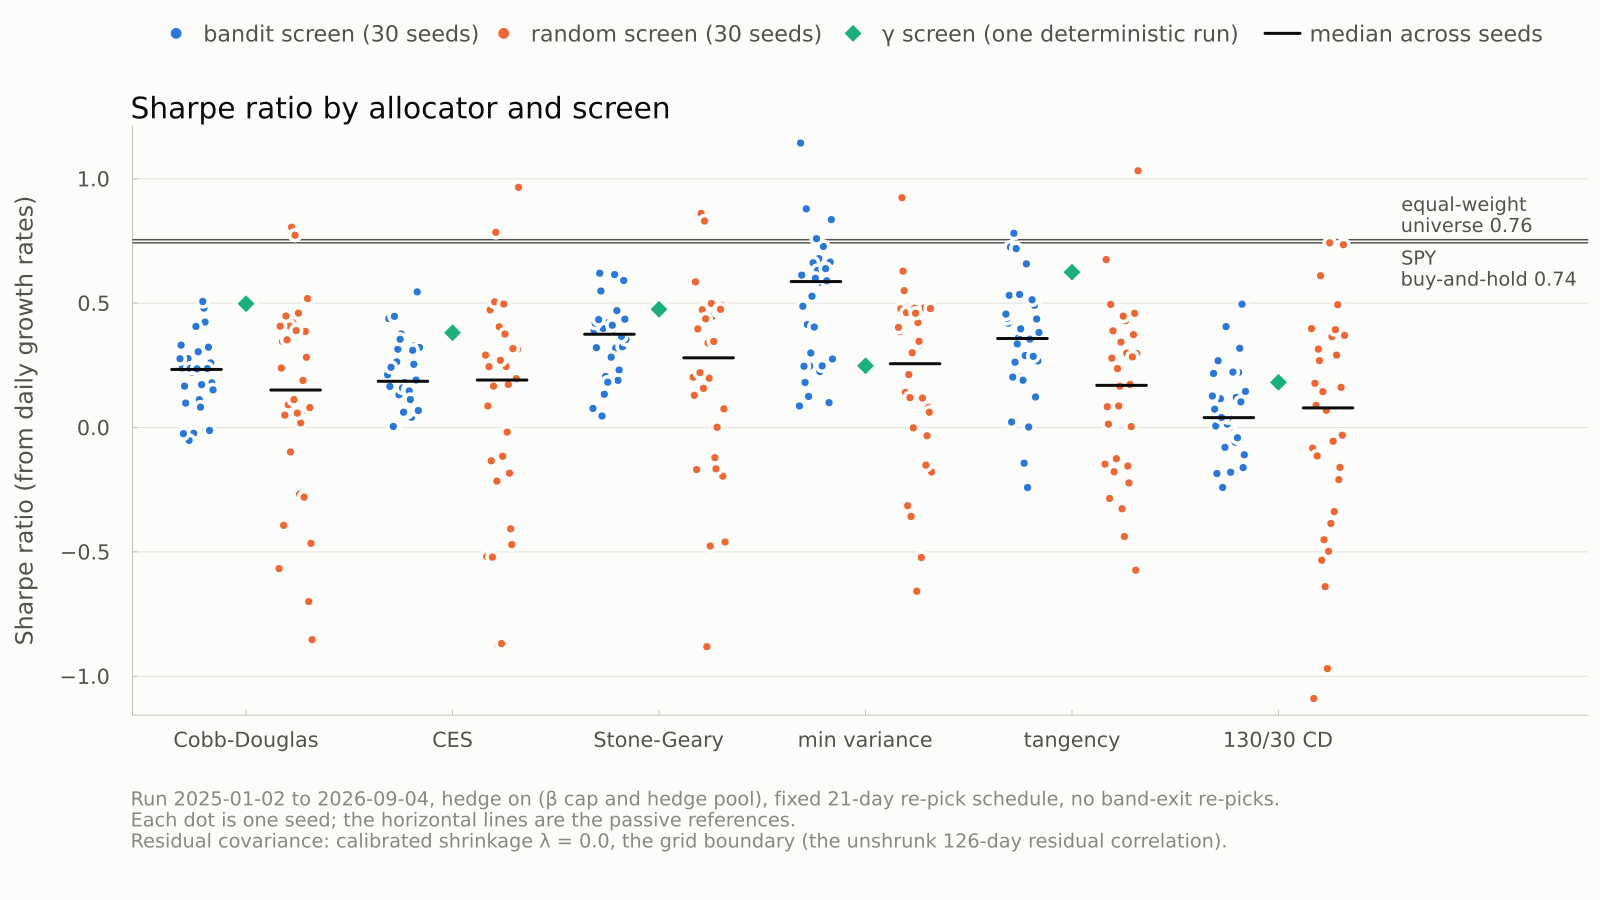
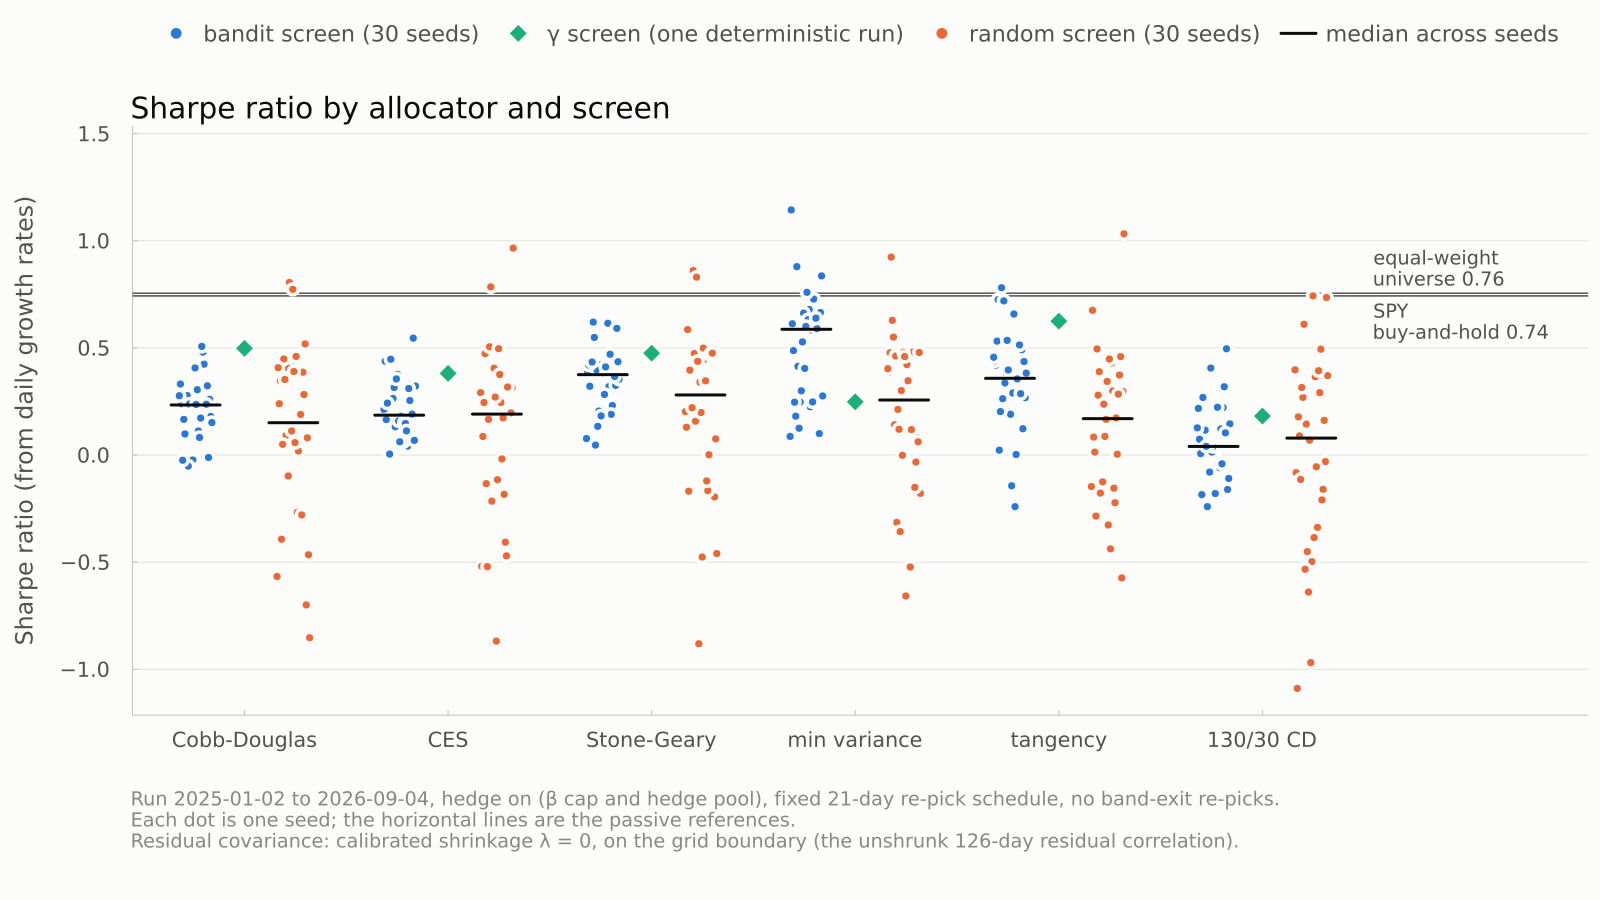
fix(figures): settings-driven captions, shared y-limits, legend order; README figures command
13_figures.jl: the beta-cap rule, pool size and lambda note come from the
settings and calibration_summary.toml (lambda read with TOML.parsefile,
"on the grid boundary" only when lambda is 0 or 1); no [dir] argument;
fig 3 caption notes that twins' re-pick dates can differ; reference labels
use a fixed format with units; legend follows the screens' x order; figs 1/2
share y-limits with their fixed-schedule versions; figs 4/5 get top space,
fig 5 gets a caption with the run period and G; seed counts in the legend
come from the plotted rows; locals no longer shadow grid, save or keys.
scripts env adds TOML and Printf. README: the exact figures command with
the one-time Pkg.instantiate, and the EMA plan decision for xi and g~_M.

diff --git a/README.md b/README.md
@@ -17,7 +17,10 @@ growth rates g = ln(S_end/S_start)/(k·Δt) in 1/yr with Δt = 1/252.
 4. `julia -t auto scripts/11_run_study.jl --fixed`: fixed-schedule grid (no re-pick on band exit), `results/fixed_summary.csv`.
 5. `julia scripts/12_tables.jl [dir] [--smoke]`: comparison tables to `<dir>/tables/*.csv` (default `results/`),
    also printed as Markdown. Smoke check: `julia scripts/12_tables.jl results/smoke --smoke`.
-6. `scripts/13_figures.jl`: figures (uses `scripts/Project.toml`).
+6. `julia --project=scripts scripts/13_figures.jl`: slide figures (1600×900 PNG) to `results/figures/`, from
+   `results/*_summary.csv`, `results/runs/`, `config/study.toml` and `results/calibration_summary.toml`.
+   It uses its own environment (`scripts/Project.toml`, Plots.jl with VLINFORMS2026 developed from `code/`);
+   once per checkout, run `julia --project=scripts -e 'using Pkg; Pkg.instantiate()'`.
 
 Tests: `julia --project=code code/test/runtests.jl`. Settings live in `config/study.toml`.
 `data/`, `results/runs/` and `results/smoke/` are never committed; summaries, tables, figures and
@@ -33,6 +36,9 @@ Plan:
 - The hedge-pool tie-break: a hedge name holds more than its floor only when a binding limit (β cap or vol cap) makes it worth its budget.
 - "Share of days the β cap binds" is counted over decision days (`cap_bind_share`), the only days the cap is enforced.
 - The figures use Plots.jl in a separate scripts environment.
+- ξ's short and long averages and g̃_M are exponential moving averages (EMA, as in CHEME-5660 L8b) where the
+  spec says "moving average": ξ uses spans `xi_short`/`xi_long` (21/63 days) and g̃_M a span of `gtilde_window`
+  (252 days).
 - The old 10-19 `run_backtest` stays; `run_study` reuses its fill and cost helpers.
 
 Spec "my call" items the code implements:
